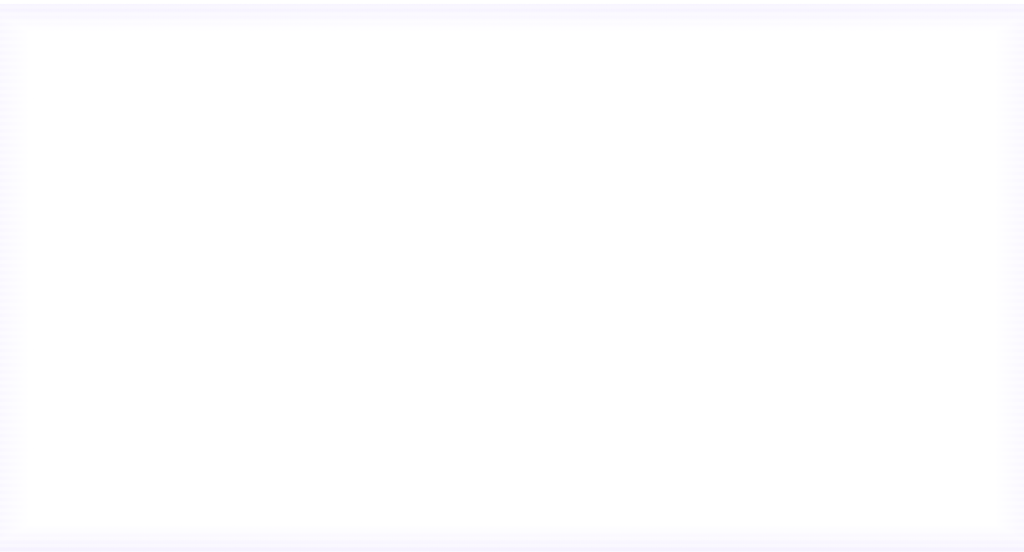
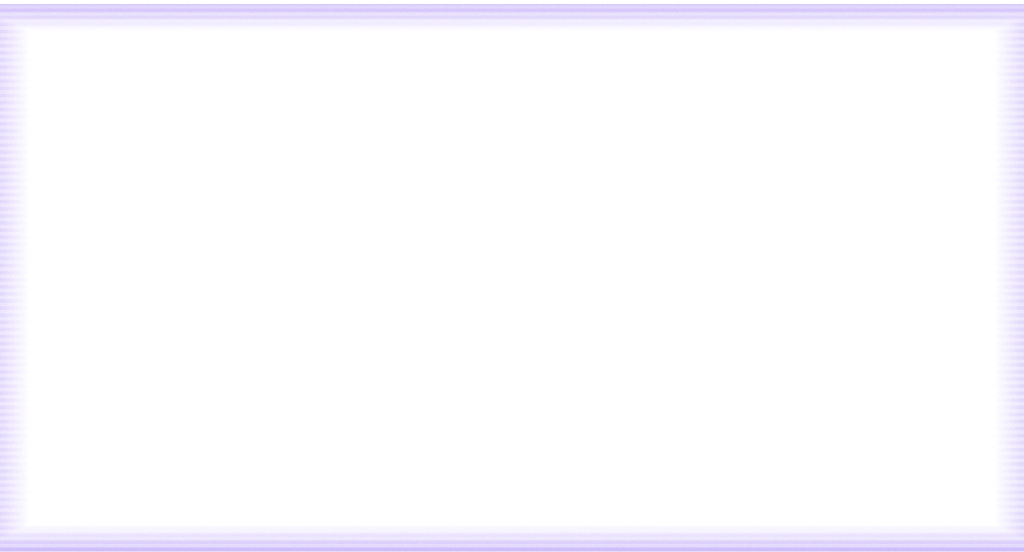
feat: Update values

diff --git a/Avatar.js b/Avatar.js
@@ -3,7 +3,7 @@ import { GLTFLoader } from "three/addons/loaders/GLTFLoader.js";
 
 export class Avatar {
 	constructor() {
-		this.emissionFactor = 2;
+		this.emissionFactor = 20;
 
 		this.head = null;
 		this.leftEye = null;
@@ -14,13 +14,13 @@ export class Avatar {
 		this.eyeMovementCoeff = { x: 15, y: 15 };
 		this.blinkState = { left: false, right: false };
 		this.blinkingThresholdOn = 0.5;
-		this.blinkingThresholdOff = 0.3;
+		this.blinkingThresholdOff = 0.4;
 		this.eyesSyncThreshold = 0.2;
 		this.smilingFactor = 0.3;
 
 		this.previousVolume = 0;
 
-		this.eyeBaseCoeff = 0.1;
+		this.eyeBaseCoeff = 0.05;
 		this.headPositionBaseCoeff = 0.05;
 		this.headQuaternionBaseCoeff = 0.05;
 		this.blendShapeBaseCoeff = {
@@ -82,10 +82,9 @@ export class Avatar {
 
 			this.eyeMaterials.push(new THREE.MeshBasicMaterial({
 				map: texture,
-				color: new THREE.Color().setScalar(this.emissionFactor),
 				transparent: true,
 				lightMap: texture,
-				lightMapIntensity: this.emissionFactor,
+				lightMapIntensity: this.emissionFactor / 10,
 				depthWrite: false
 			}));
 		}
@@ -121,7 +120,6 @@ export class Avatar {
 			const geometry = new THREE.PlaneGeometry(0.386, 0.206);
 			const material = new THREE.MeshBasicMaterial({
 				map: texture,
-				color: new THREE.Color().setScalar(this.emissionFactor),
 				transparent: true,
 				lightMap: texture,
 				lightMapIntensity: this.emissionFactor,
@@ -136,7 +134,7 @@ export class Avatar {
 
 	updateSoundIndicator(volume, delta) {
 		if (this.soundIndicator) {
-			const lerpedVolume = THREE.MathUtils.lerp(this.previousVolume, volume > 0.3 ? volume : 0, 1 - Math.exp(-delta / 0.1));
+			const lerpedVolume = THREE.MathUtils.lerp(this.previousVolume, volume > 0.15 ? volume : 0, 1 - Math.exp(-delta / 0.1));
 			this.soundIndicator.material.opacity = lerpedVolume > 0.01 ? 1 - Math.pow(1 - Math.max(Math.min(lerpedVolume, 1), 0), 3) : 0;
 			this.previousVolume = lerpedVolume;
 		}

diff --git a/AudioManager.js b/AudioManager.js
@@ -26,14 +26,11 @@ export class AudioManager {
 				selectedId = savedDeviceId;
 			} else {
 				// 2. Smart Selection
-				const waveMic = options.find(opt => opt.text.toLowerCase().includes("wave"));
+				const waveMic = options.find(opt => opt.text.toLowerCase().includes("wave") && opt.text.toLowerCase().includes("microphone"));
 				const macbookMic = options.find(opt => opt.text.toLowerCase().includes("macbook"));
 
-				if (waveMic) {
-					selectedId = waveMic.value;
-				} else if (macbookMic) {
-					selectedId = macbookMic.value;
-				}
+				if (waveMic) selectedId = waveMic.value;
+				else if (macbookMic) selectedId = macbookMic.value;
 			}
 
 			if (selectedId) {
